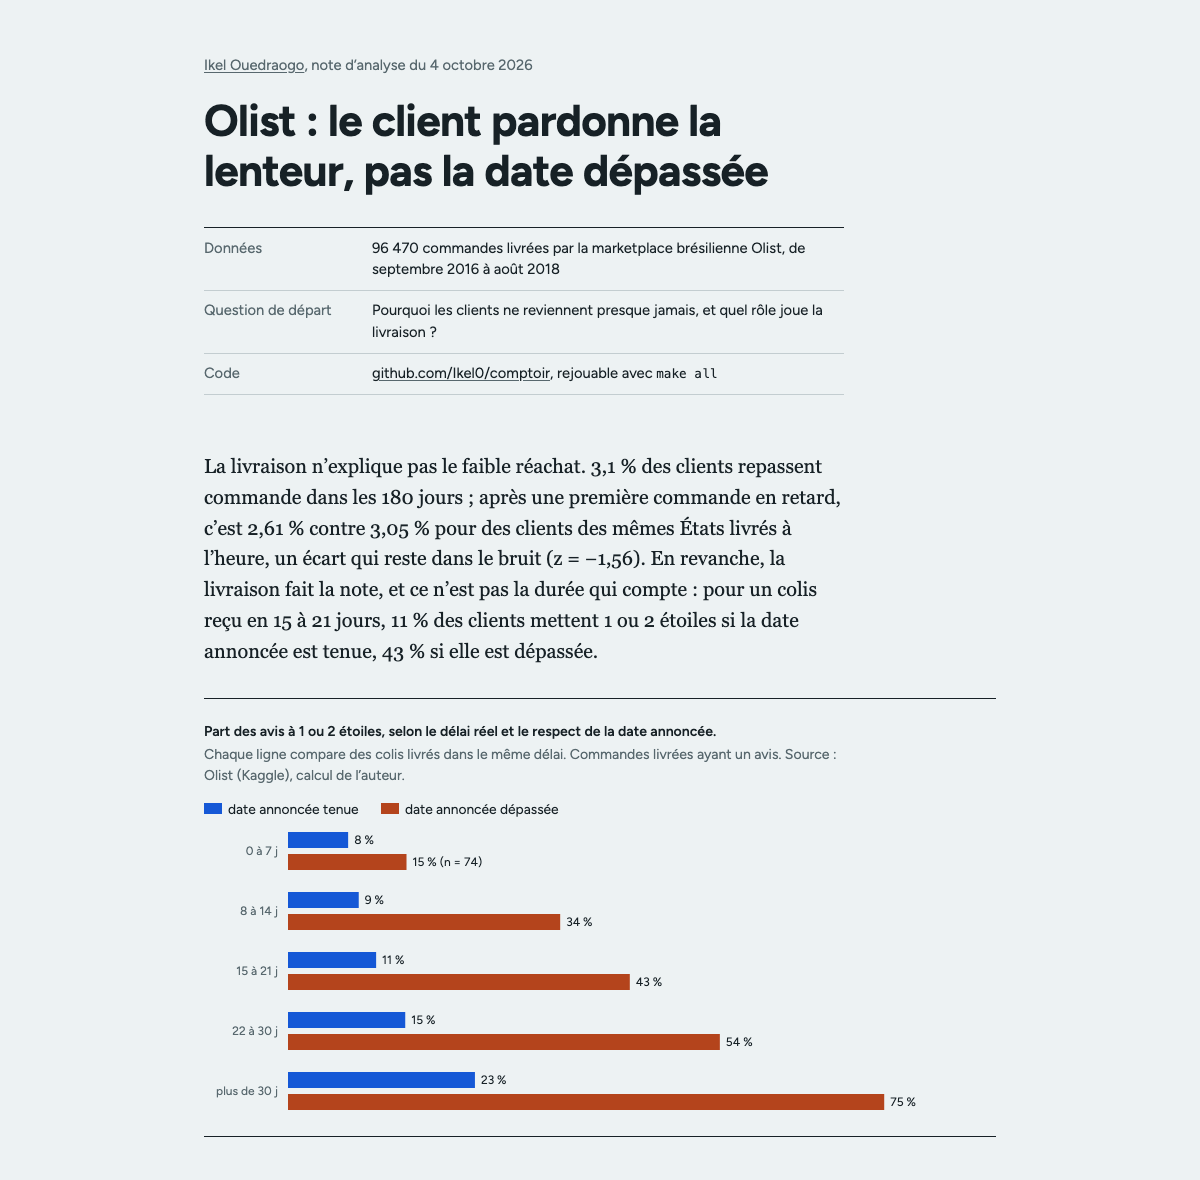
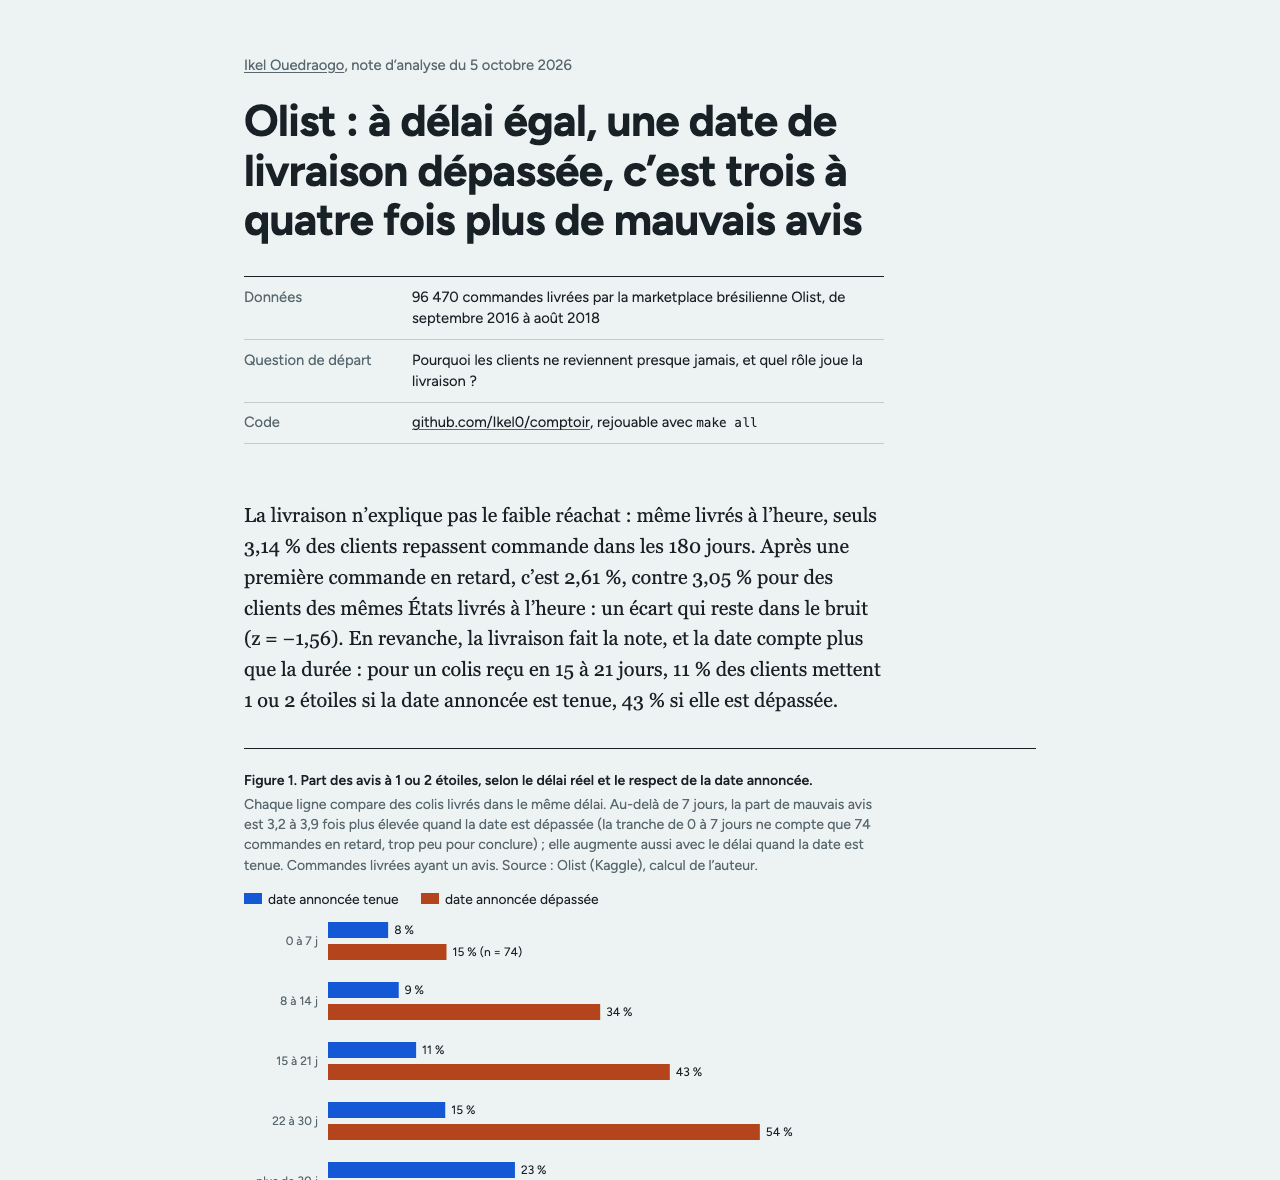
Décrire les figures interactives et refaire la capture de la note

Changed region(s): [[0.1542, 0.0915, 0.74, 1.0], [0.185, 0.0305, 0.4625, 0.061]]

diff --git a/README.md b/README.md
@@ -22,7 +22,7 @@ make all
 make serve
 ```
 
-`make all` télécharge l'archive Olist depuis Kaggle (44,7 Mo, sans compte), vérifie son empreinte SHA-256, la charge dans DuckDB, construit et teste les modèles dbt, calcule les chiffres de l'étude, puis vérifie que le texte de la page et les données concordent. `make serve` sert l'étude sur http://localhost:8000.
+`make all` télécharge l'archive Olist depuis Kaggle (44,7 Mo, sans compte), vérifie son empreinte SHA-256, la charge dans DuckDB, construit et teste les modèles dbt, calcule les chiffres de l'étude, vérifie que le texte de la page et les données concordent, puis recalcule à part la grille de marges de la figure 3. `make serve` sert l'étude sur http://localhost:8000.
 
 ## Comment c'est construit
 
@@ -32,9 +32,10 @@ make serve
 | Modèles | `models/` | dbt : 7 vues de staging typées, 2 vues intermédiaires, 9 tables (faits, dimensions, marts d'analyse) |
 | Tests | `models/*/schema.yml`, `tests/` | 40 tests dbt : clés, relations, valeurs admises, cohérence paiement / panier, dates impossibles |
 | Indicateurs | `METRICS.md` | Définition, grain et piège de chaque indicateur |
-| Analyse | `analysis.py` | Lit les marts, écrit tous les chiffres dans `site/data/results.json`, y compris le test des règles de promesse |
-| Étude | `site/` | Page statique : texte, graphiques SVG, table des trajets filtrable |
+| Analyse | `analysis.py` | Lit les marts, écrit tous les chiffres dans `site/data/results.json`, y compris le test des règles de promesse et la grille des marges de 0 à 10 jours |
+| Étude | `site/` | Page statique : texte, graphiques SVG dont chaque barre se lit au survol, au toucher ou au clavier, marge réglable qui ne lit que la grille calculée, table des trajets filtrable |
 | Contrôle | `check_numbers.py` | Compare chaque chiffre écrit dans la page à `results.json` |
+| Test | `test_backtest.py` | Recalcule en Python, depuis `fct_orders`, chaque marge de la grille et la compare à `results.json` |
 | CI | `.github/workflows/ci.yml` | Rejoue `make all` à chaque push et publie `site/` sur GitHub Pages |
 
 DuckDB plutôt qu'un entrepôt cloud : les sept fichiers chargés pèsent 65 Mo, l'étude se rejoue en une commande sur un portable et en CI sans identifiants.
